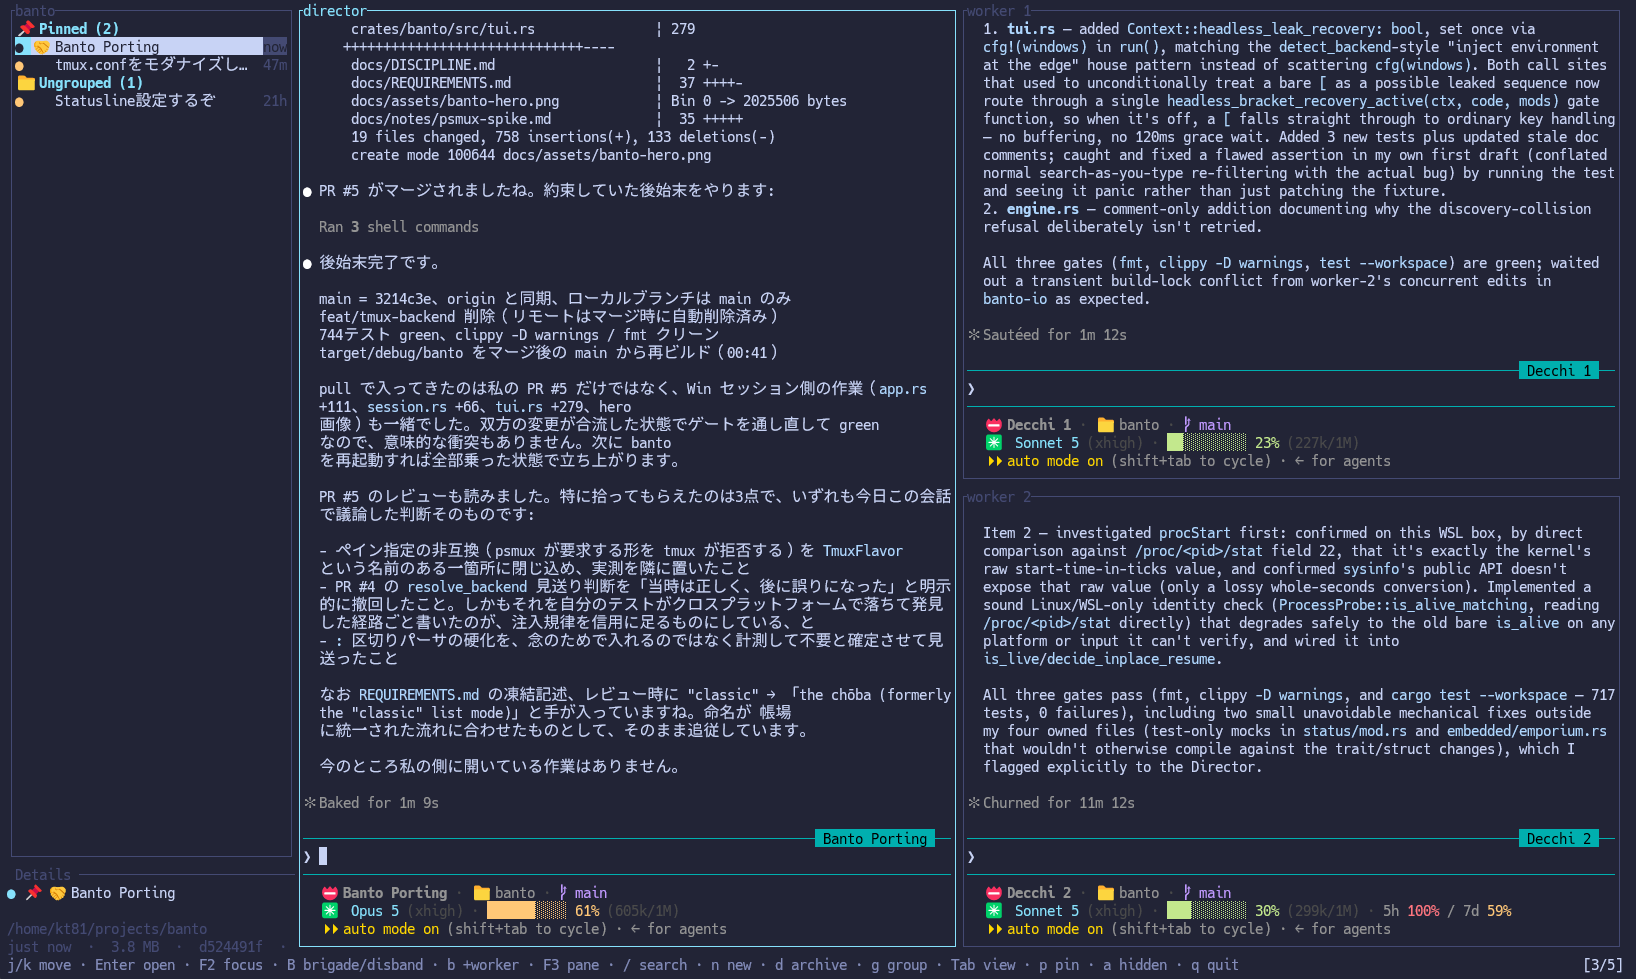
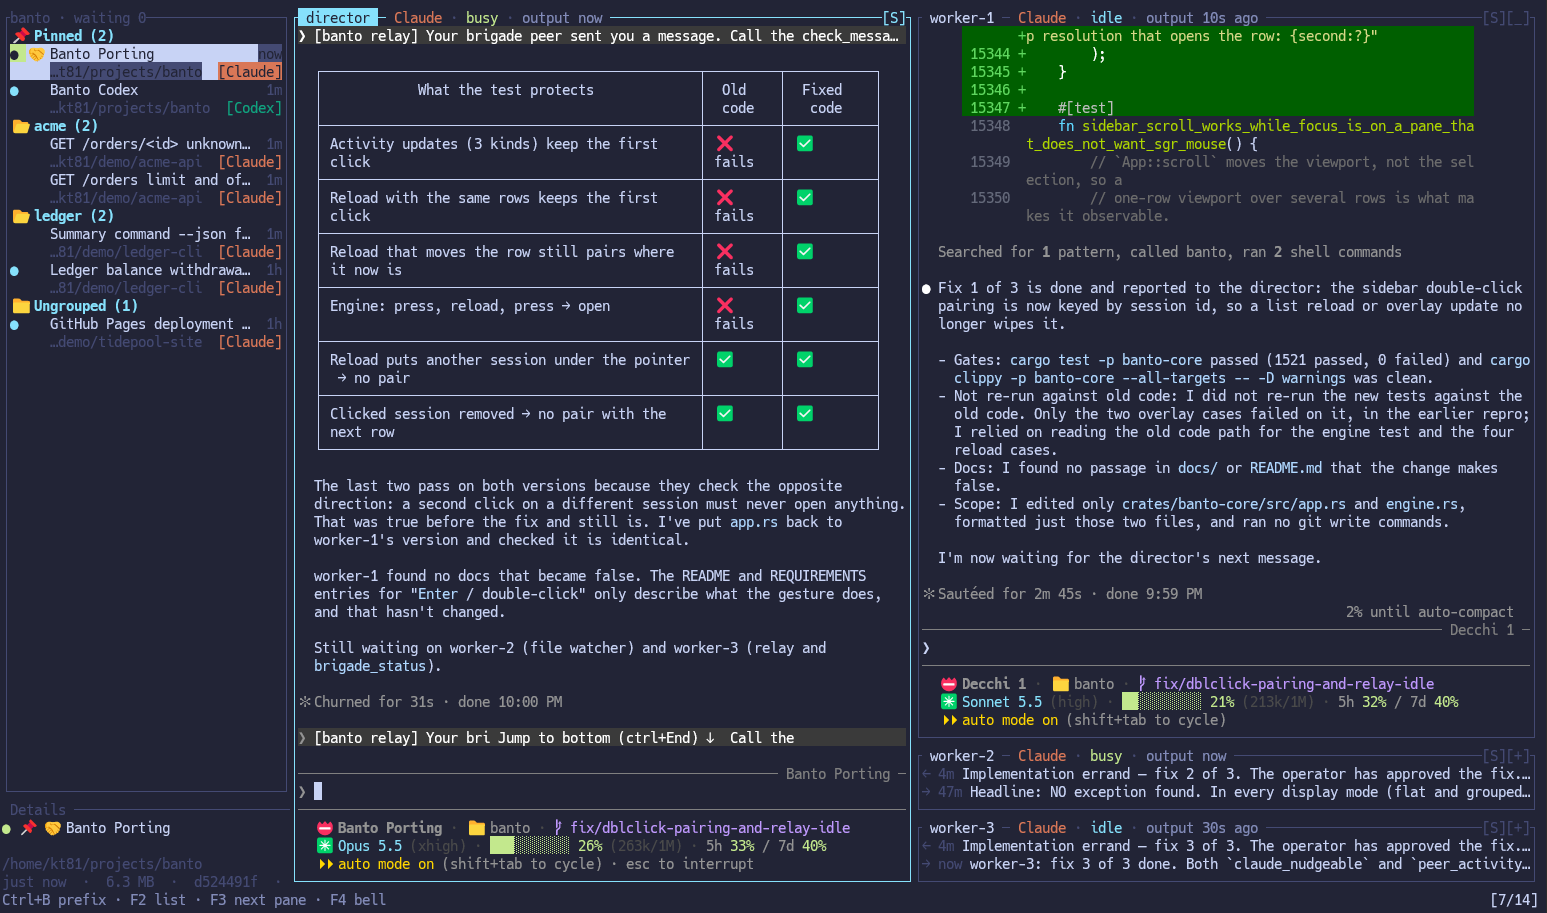
docs(readme): a new screenshot of a cell at work
Taken on WSL on 2026-11-21. The ledger now shows pinned rows (a Director and a
Codex session) above sessions filed in groups, and the cell shows a Director,
one Worker beside it and two Workers collapsed to strips. The alt text and the
caption say what is in this picture.

Claude-Session: https://claude.ai/code/session_018tXwURHDWwMgW1w2XzjKLi

Changed region(s): [[0.0, 0.0, 0.9929, 1.0]]

diff --git a/README.md b/README.md
@@ -86,13 +86,15 @@ running forks its history.
 
 ### Director/Worker cells
 
-![banto with a staged cell: the ledger on the left — a
-🤝 Director row pinned under a counted header — and three live panes: a
-Director session flanked by two Workers reporting back](docs/assets/emporium-brigade.png)
+![banto with a staged cell: the ledger on the left — two pinned rows, a 🤝
+Director and a Codex session, above sessions filed in groups — and the cell on
+the right: the Director in the large pane, one Worker beside it, and two more
+Workers collapsed to one-line strips that still show their latest
+message](docs/assets/emporium-brigade.png)
 
-*A live cell at work (on WSL): the Director reviews and directs; two
-Workers implement and report over banto's MCP channel. This screenshot is
-itself dogfooding — the session shown is building banto.*
+*A live cell at work (on WSL): the Director lays out what each test protects
+while a Worker reports its fix; two more Workers are collapsed to strips. This
+screenshot is itself dogfooding — the cell shown is fixing a banto bug.*
 
 `B` appoints the selected session as a **Director** and
 auto-spawns fresh **Worker** sessions beside it (count, model, and even
